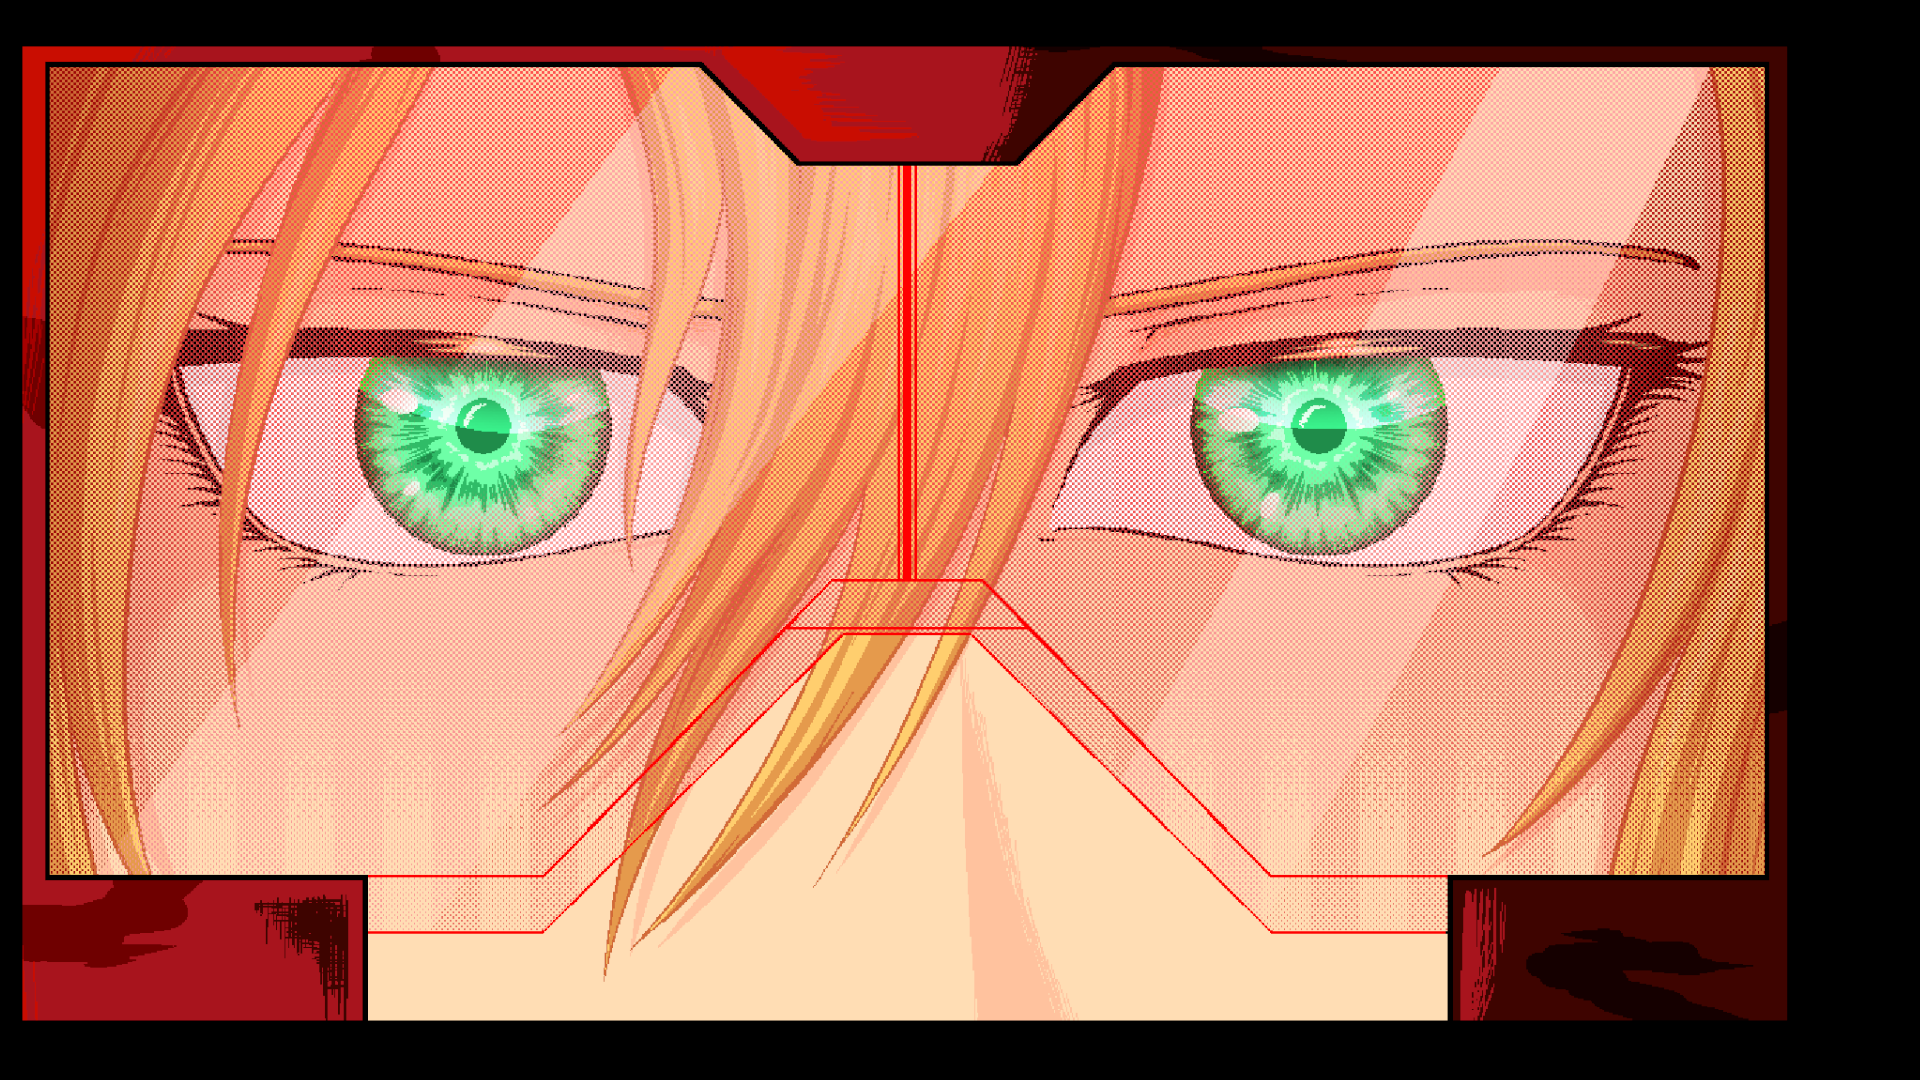
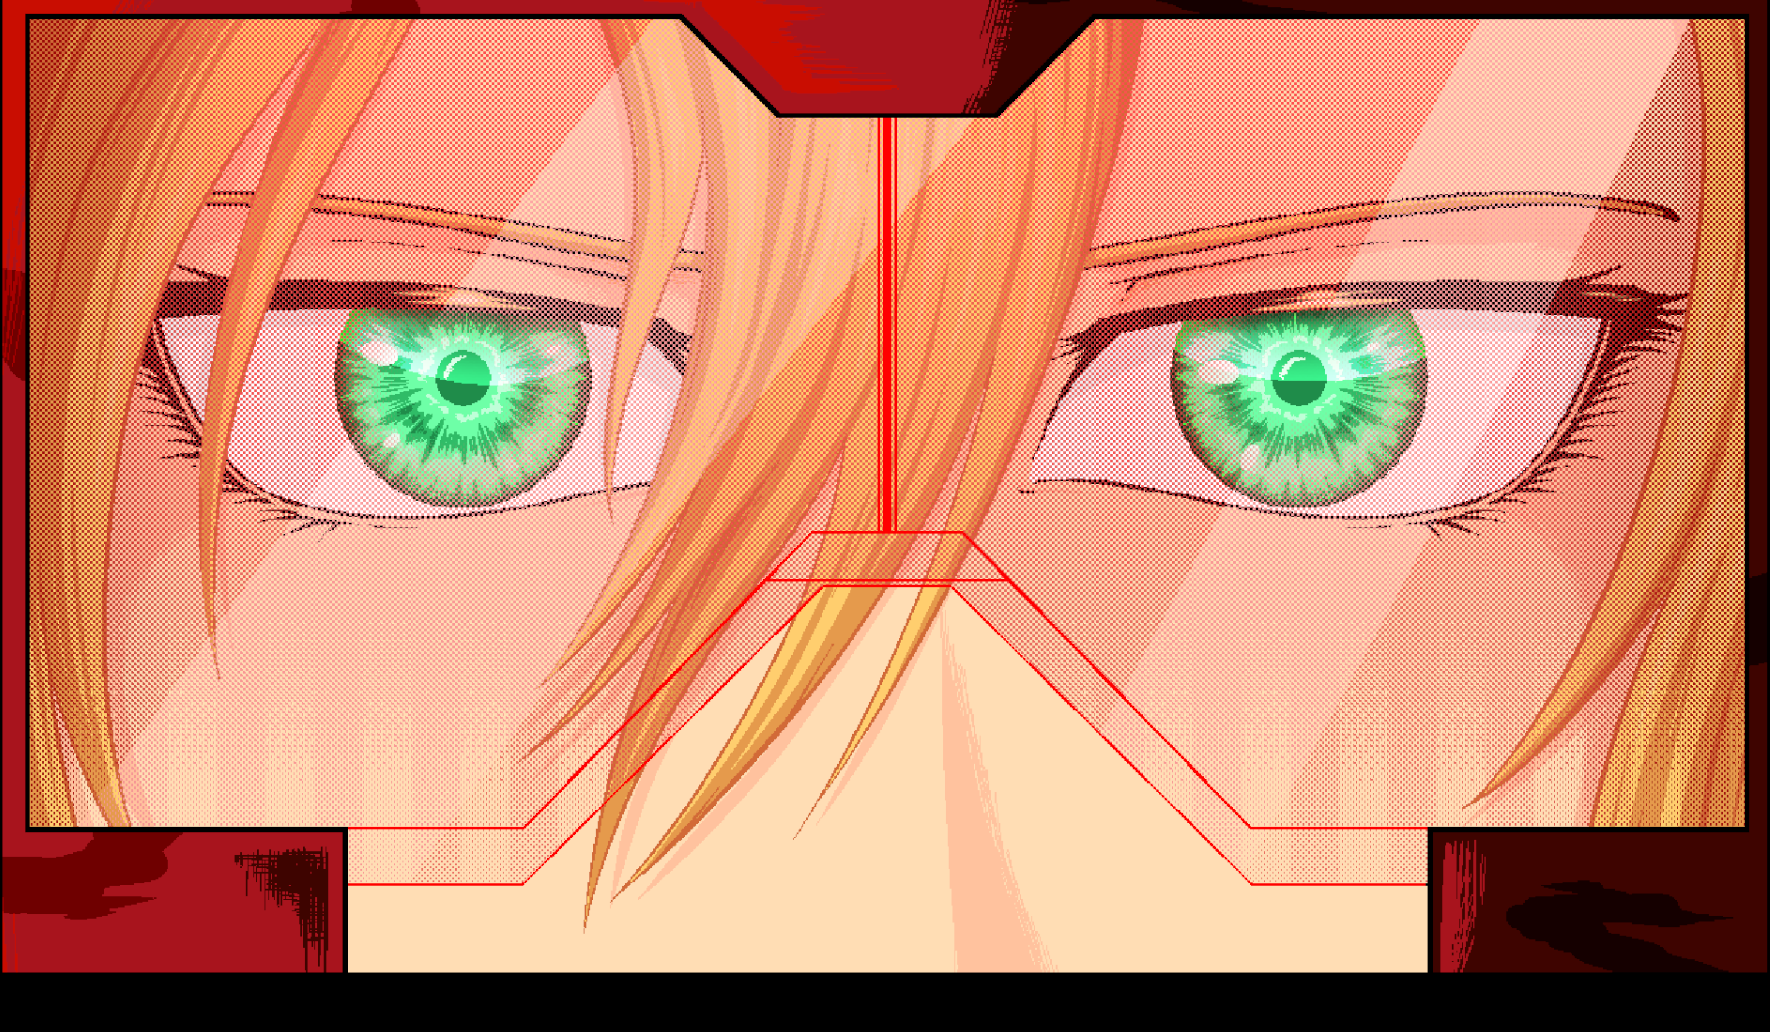
справлены картинки на мобильном

diff --git a/style.css b/style.css
@@ -3510,6 +3510,17 @@ body.is-news-modal-open {
   }
 }
 
+/* Узкие экраны: свой кадр у «Выбора», зум как у остальных */
+@media (max-width: 680px) {
+  .hero-slide--choice .hero-slide__img {
+    object-position: 72% 18%;
+  }
+
+  .hero-slide--choice.is-active .hero-slide__img {
+    animation: hero-cinematic-drift 8.8s ease-out both;
+  }
+}
+
 @media (max-width: 390px) {
   .hero[data-hero-slider] .hero__interface {
     padding: 88px 14px 80px;
@@ -3534,5 +3545,31 @@ body.is-news-modal-open {
   .hero__scene-copy {
     font-size: 9px;
     margin-top: 6px;
+  }
+}
+
+/* Узкие экраны: поднять кадр «Миссии» без сдвига текста/кнопок */
+@media (max-width: 680px) {
+  .hero-slide--mission {
+    overflow: hidden;
+  }
+
+  .hero-slide--mission .hero-slide__img {
+    position: absolute;
+    top: -10%;
+    left: 0;
+
+    width: 100%;
+    height: 110%;
+
+    object-fit: cover;
+    object-position: 58% center;
+
+    transform: scale(1.01) !important;
+    transform-origin: center top;
+  }
+
+  .hero-slide--mission.is-active .hero-slide__img {
+    transform: scale(1.02) !important;
   }
 }

diff --git a/index.html b/index.html
@@ -7,7 +7,7 @@
 <title>ON DEATH PASS — стелс-хоррор про агентов в мире после катастрофы</title>
 <meta name="description" content="ON DEATH PASS — стелс-экшн с элементами хоррора. Агенты Роз и Нефелим должны проникнуть на защищённый объект. Скачайте демо-версию.">
 <script>document.documentElement.classList.add('js');</script>
-<link rel="stylesheet" href="style.css?v=20260801f">
+<link rel="stylesheet" href="style.css?v=20260801n">
 
 <!-- Netlify Identity: нужен на главной, чтобы принять invite из письма -->
 <script src="https://identity.netlify.com/v1/netlify-identity-widget.js"></script>
@@ -118,7 +118,7 @@
                    loading="eager" fetchpriority="high">
             </article>
 
-            <article class="hero-slide"
+            <article class="hero-slide hero-slide--mission"
                      role="group" aria-roledescription="слайд" aria-label="2 из 3"
                      aria-hidden="true"
                      data-scene-code="МИССИЯ / ПРОНИКНОВЕНИЕ"
